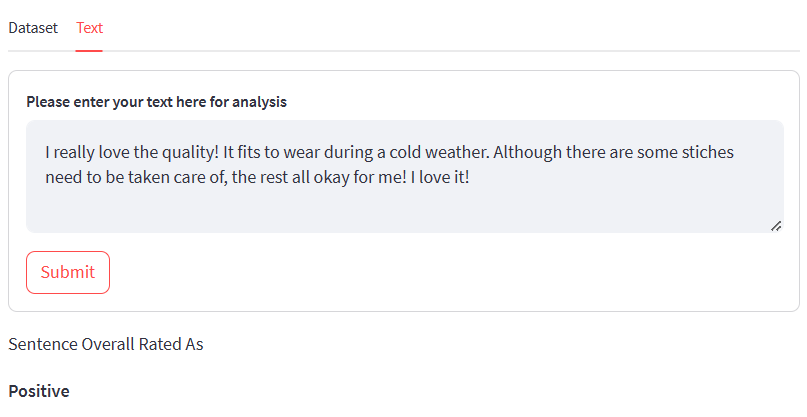
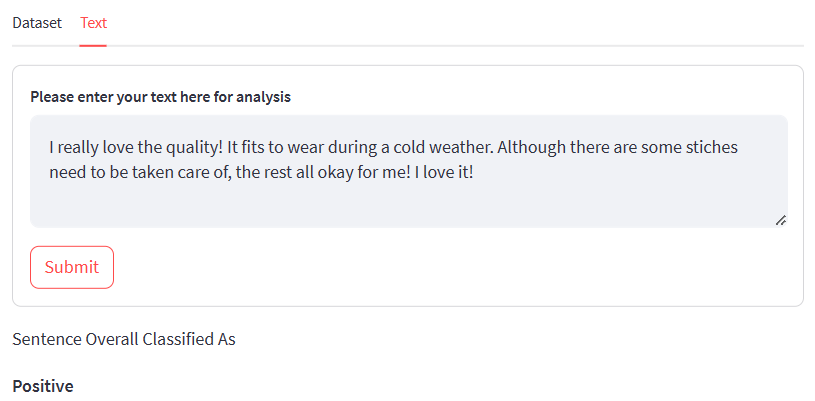
edited

diff --git a/sentiment_streamlit.py b/sentiment_streamlit.py
@@ -66,7 +66,7 @@ with tab2:
     if submit2:
         sentiment_model = Model().pretrained_model()
         sentiment_dict = sentiment_model.polarity_scores(text_entered)
-        st.write("Sentence Overall Rated As", end = " ")
+        st.write("Sentence Overall Classified As", end = " ")
     # decide sentiment as positive, negative and neutral
         if sentiment_dict['compound'] >= 0.05 :
             st.write('**Positive**')
